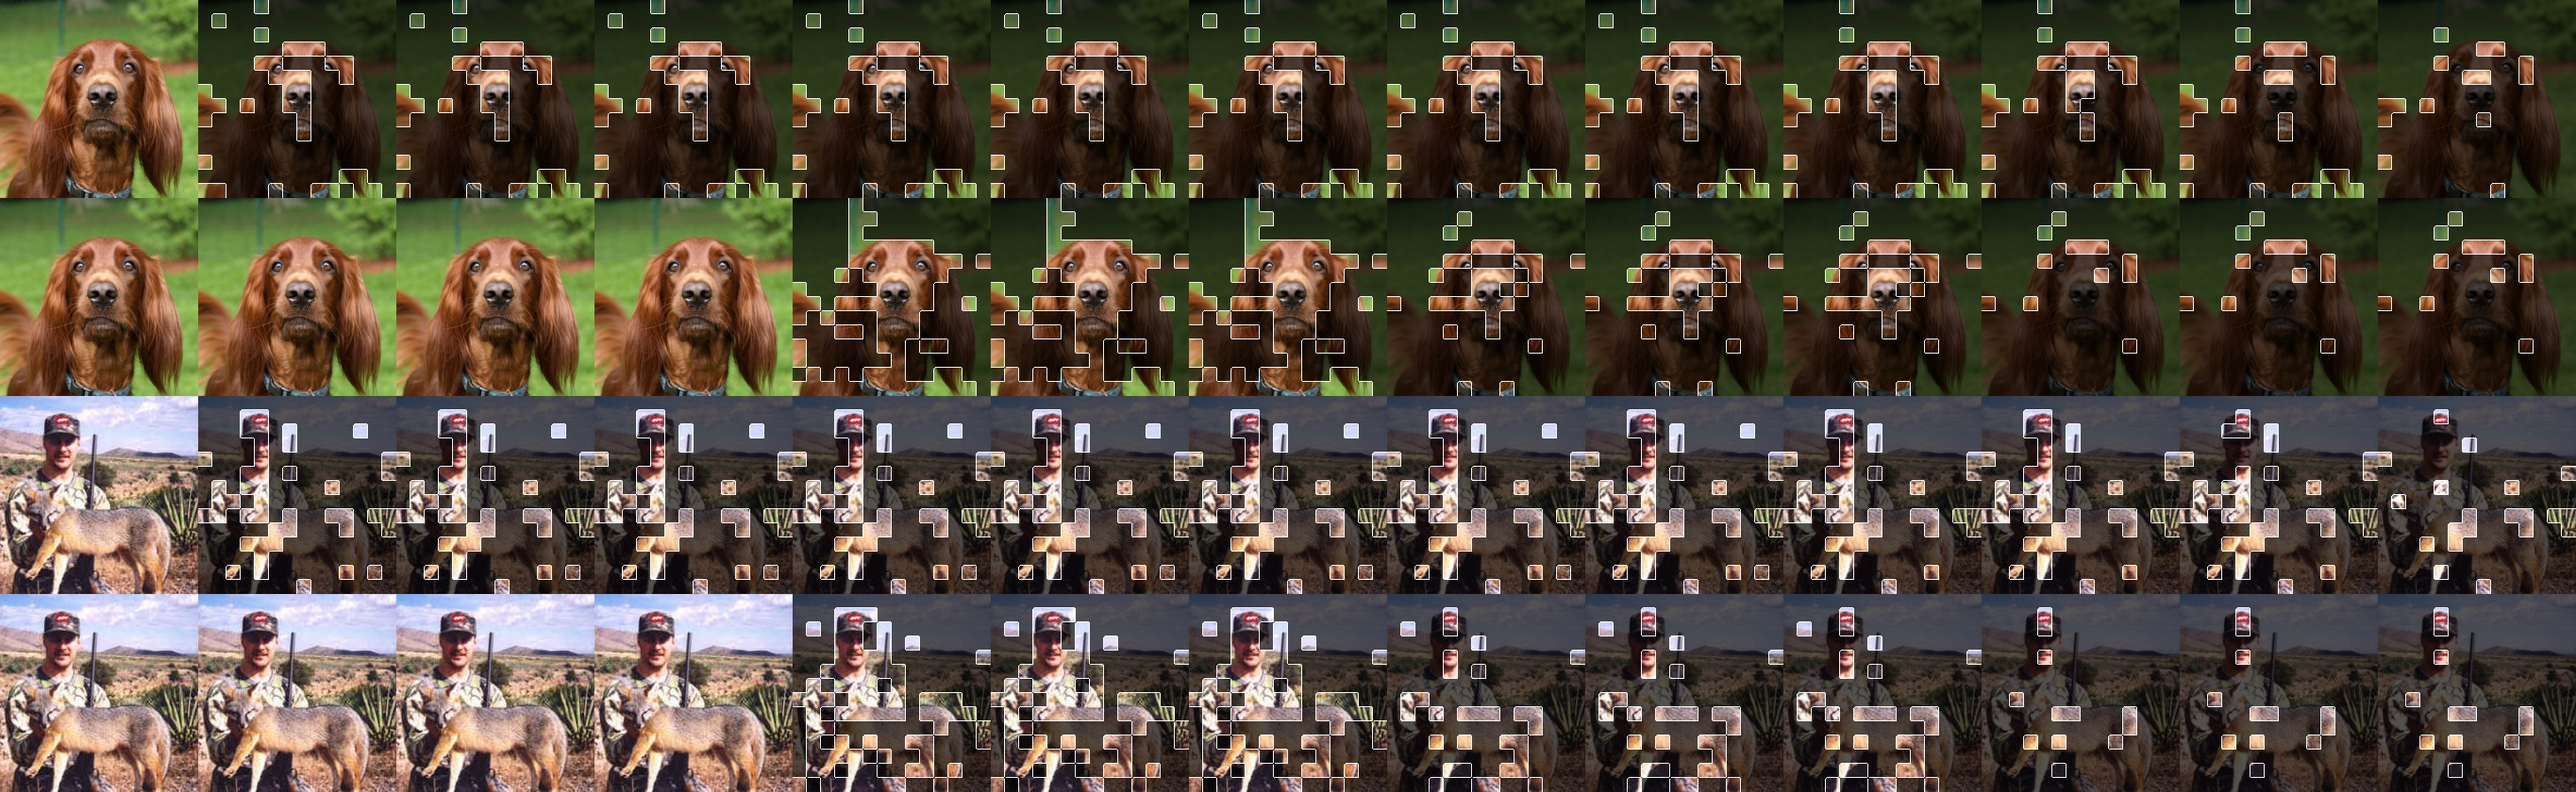
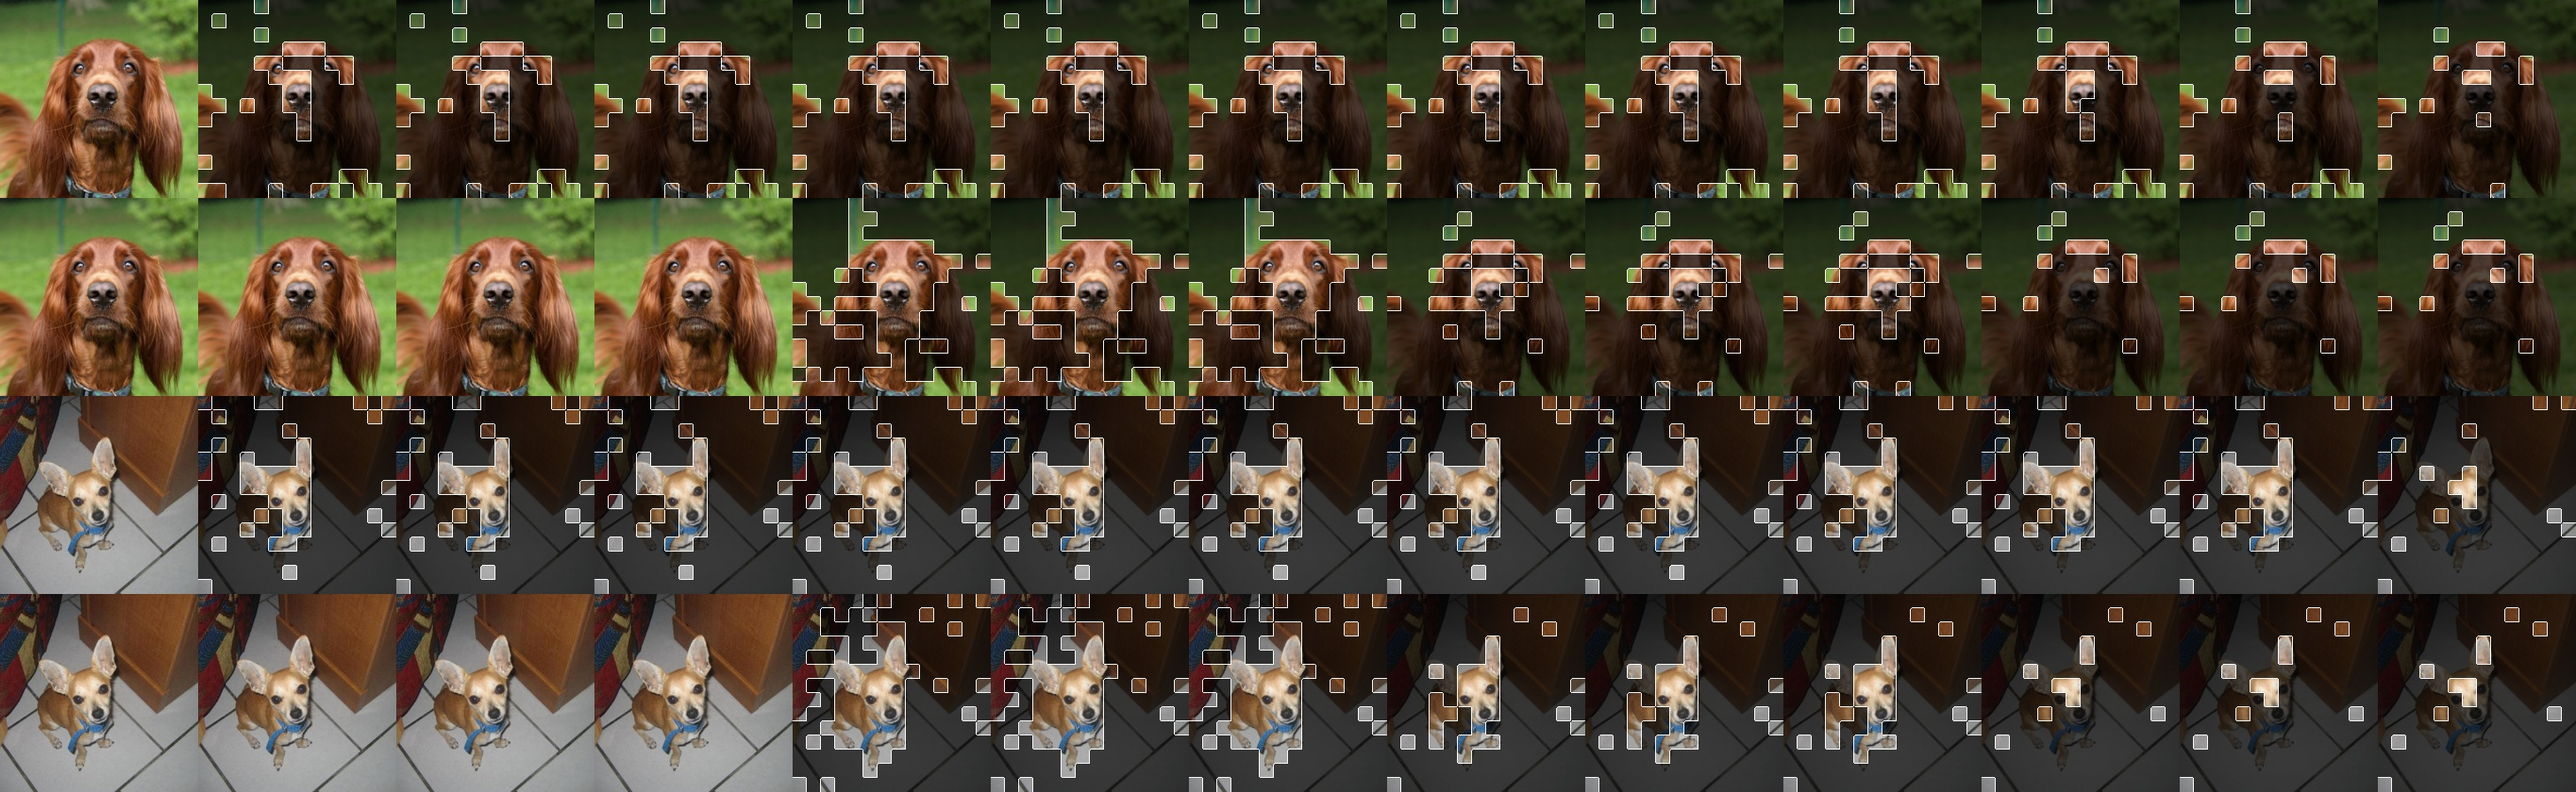
update vit plot

diff --git a/main/visualize/vit.py b/main/visualize/vit.py
@@ -76,7 +76,7 @@ def load_dyvit(checkpoint_path, base_rate=0.4):
     return model, PRUNING_LOC
 
 @torch.no_grad()
-def vis_dyvit(checkpoint_path, imsize=224, patchsize=16, base_rate=0.4):
+def vis_dyvit(checkpoint_path, imsize=224, patchsize=16, base_rate=0.4, interested_layer=None):
     print('vis_dyvit:', checkpoint_path)
     def get_keep_indices(decisions):
         keep_indices = []
@@ -107,7 +107,7 @@ def vis_dyvit(checkpoint_path, imsize=224, patchsize=16, base_rate=0.4):
 
     plot_imgs = []
     for i, img in enumerate(imgs):
-        plot_img = render_image(img, input_masks[i])
+        plot_img = render_image(img, input_masks[i] if interested_layer is None else input_masks[i][interested_layer])
         path = f'./saves_plot/visualization_vit/{i}_dyvit.png'
         cv2.imwrite(path, plot_img)
         plot_imgs.append(plot_img)
@@ -129,7 +129,7 @@ def load_concrete(checkpoint_path, factor=4, p_logit=-1.5):
     return model
 
 @torch.no_grad()
-def vis_concrete(checkpoint_path, imsize=224, patchsize=16, factor=4, p_logit=-1.5):
+def vis_concrete(checkpoint_path, imsize=224, patchsize=16, factor=4, p_logit=-1.5, interested_layer=None):
     print('vis_concrete:', checkpoint_path)
     assert os.path.exists(checkpoint_path)
     
@@ -149,7 +149,7 @@ def vis_concrete(checkpoint_path, imsize=224, patchsize=16, factor=4, p_logit=-1
     
     plot_imgs = []
     for i, img in enumerate(imgs):
-        plot_img = render_image(img, input_masks[i])
+        plot_img = render_image(img, input_masks[i] if interested_layer is None else input_masks[i][interested_layer])
         path = f'./saves_plot/visualization_vit/{i}_concrete.png'
         cv2.imwrite(path, plot_img)
         plot_imgs.append(plot_img)
@@ -157,7 +157,7 @@ def vis_concrete(checkpoint_path, imsize=224, patchsize=16, factor=4, p_logit=-1
     
     return plot_imgs
 
-def label_stacked_plot(plot):
+def label_stacked_plot(plot, labels_layer=None):
     left_pad = 224
     top_pad = 112
     left_stack_top_margin = 112 + top_pad
@@ -194,7 +194,7 @@ def label_stacked_plot(plot):
     x = top_stack_left_margin
     i = 0
     while x < (W + left_pad):
-        text = "Original" if i == 0 else f"Layer {i}"
+        text = "Original" if i == 0 else (f"Layer {i}" if (labels_layer is None or i >= len(labels_layer)) else labels_layer[i])
 
         (label_width, label_height), baseline = cv2.getTextSize(text, font_face, font_scale, font_thickness)
         img = cv2.putText(img, text, (x - label_width // 2, top_pad - top_stack_bottom_margin), font_face, font_scale, font_color, font_thickness, cv2.LINE_AA)
@@ -220,39 +220,58 @@ def label_stacked_plot(plot):
     
     return img
 
-def combine_plots(plots_dyvit, plots_concrete):
+def combine_plots(plots_dyvit, plots_concrete, labels_layer=None):
     plot_stacks = []
     for i in range(len(plots_dyvit)):
         plot_stacks.append(plots_concrete[i])
         plot_stacks.append(plots_dyvit[i])
     plot_stacks = np.concatenate(plot_stacks, axis=0)
     
-    return plot_stacks, label_stacked_plot(plot_stacks)
+    return plot_stacks, label_stacked_plot(plot_stacks, labels_layer=labels_layer)
 
 def main():
+    def imwrite(name, img):
+        path = f'./saves_plot/visualization_vit/{name}'
+        cv2.imwrite(path+'.png', img)
+        cv2.imwrite(path+'.jpg', img)
+        print('main.imwrite:', path)
+    def filter(lst, ids):
+        return [item for i, item in enumerate(lst) if i in ids]
+    
+    #three layers
+    interest_ids = [5, 7]
+    interested_layers = [3,6,9]
+    labels_layer = [str(i+1) for i in interested_layers]
+    plots_dyvit = vis_dyvit(
+        checkpoint_path='./thrid_party/DynamicViT/logs/dynamicvit_deit-s-0.4/checkpoint-29.pth',
+        base_rate=0.4, interested_layer=interested_layers
+    )
+    plots_concrete = vis_concrete(
+        checkpoint_path='./saves/dyvit-concrete-f4--1.5-nohard-e20-we14/checkpoint-19.pth',
+        factor=4, p_logit=-1.5, interested_layer=interested_layers
+    )
+    plot_stacks, plot_stacks_labeled = combine_plots(filter(plots_dyvit, interest_ids), filter(plots_concrete, interest_ids), labels_layer)
+    imwrite('vit_token_visualization_interested_layers_labeled', plot_stacks_labeled)
+    interest_ids = [0, 4]
+    plot_stacks, plot_stacks_labeled = combine_plots(filter(plots_dyvit, interest_ids), filter(plots_concrete, interest_ids), labels_layer)
+    imwrite('vit_token_visualization_interested_layers_labeled_2', plot_stacks_labeled)
+
+    #full layers
+    interested_layers = None
     plots_dyvit = vis_dyvit(
         checkpoint_path='./thrid_party/DynamicViT/logs/dynamicvit_deit-s-0.4/checkpoint-29.pth',
         base_rate=0.4
     )
     plots_concrete = vis_concrete(
         checkpoint_path='./saves/dyvit-concrete-f4--1.5-nohard-e20-we14/checkpoint-19.pth',
-        factor=4,
-        p_logit=-1.5
+        factor=4, p_logit=-1.5
     )
-
-    def imwrite(name, img):
-        path = f'./saves_plot/visualization_vit/{name}'
-        cv2.imwrite(path+'.png', img)
-        cv2.imwrite(path+'.jpg', img)
-        print('main.imwrite:', path)
     
     plot_stacks, plot_stacks_labeled = combine_plots(plots_dyvit, plots_concrete)
     imwrite('vit_token_visualization', plot_stacks)
     imwrite('vit_token_visualization_labeled', plot_stacks_labeled)
 
-    interest_ids = [5, 13] #[5, 9, 13]
-    def filter(lst, ids):
-        return [item for i, item in enumerate(lst) if i in ids]
+    interest_ids = [5, 7]
     plot_stacks, plot_stacks_labeled = combine_plots(filter(plots_dyvit, interest_ids), filter(plots_concrete, interest_ids))
     imwrite('vit_token_visualization_interested', plot_stacks)
     imwrite('vit_token_visualization_interested_labeled', plot_stacks_labeled)
